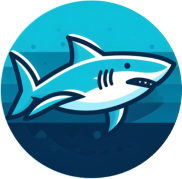
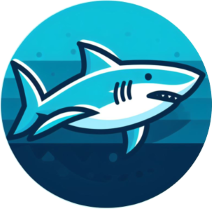
Resize and centering.

diff --git a/README.md b/README.md
@@ -1,7 +1,9 @@
 # G-SHARK
 
 G-SHARKは、入力された企業情報やインシデントの起点からチャットAIを用いてサイバー攻撃演習における訓練シナリオを自動作成するツールです。  
-![icon](https://github.com/JinkaiLibra2023/G-SHARK/blob/main/icon.png?raw=true)
+<p align="center">
+    <img src="https://github.com/JinkaiLibra2023/G-SHARK/blob/main/icon.png?raw=true" alt="icon" />
+</p>
 
 ## スクリーンショット
 
